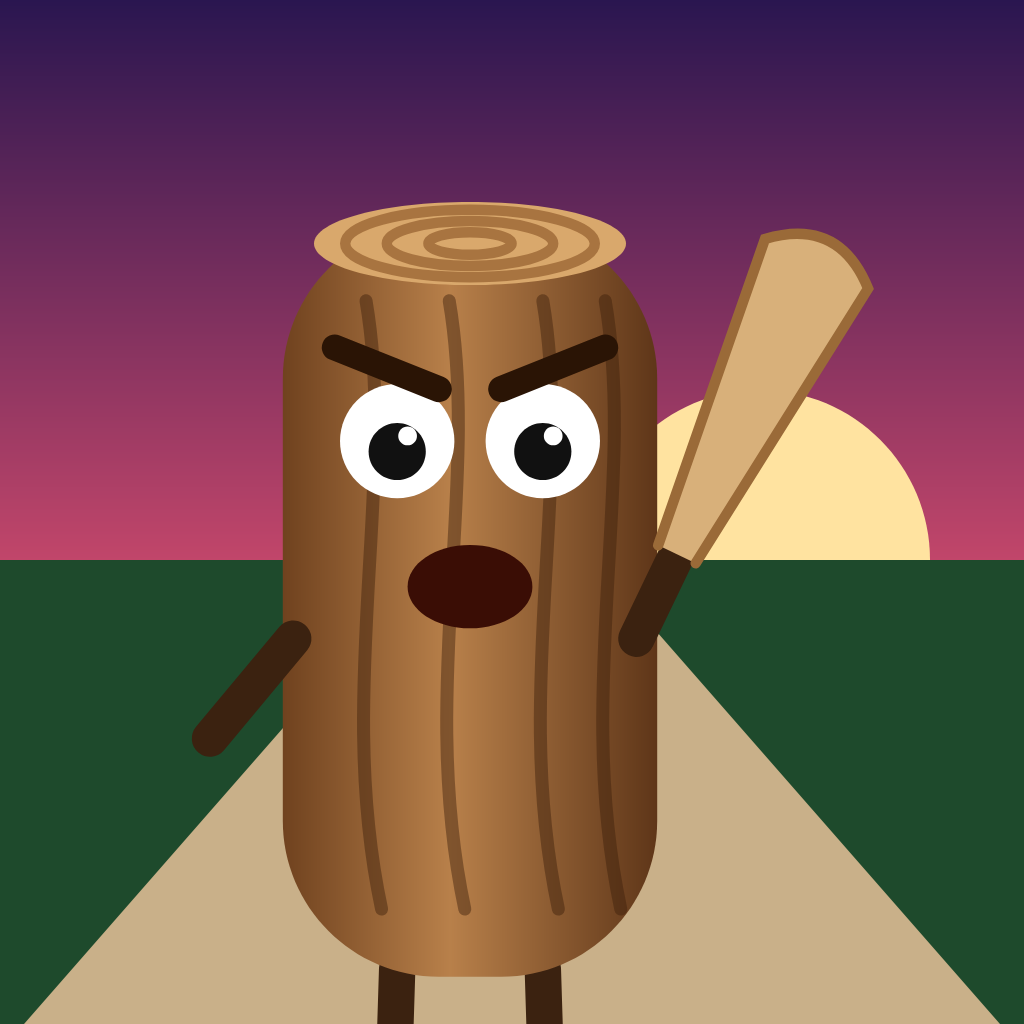
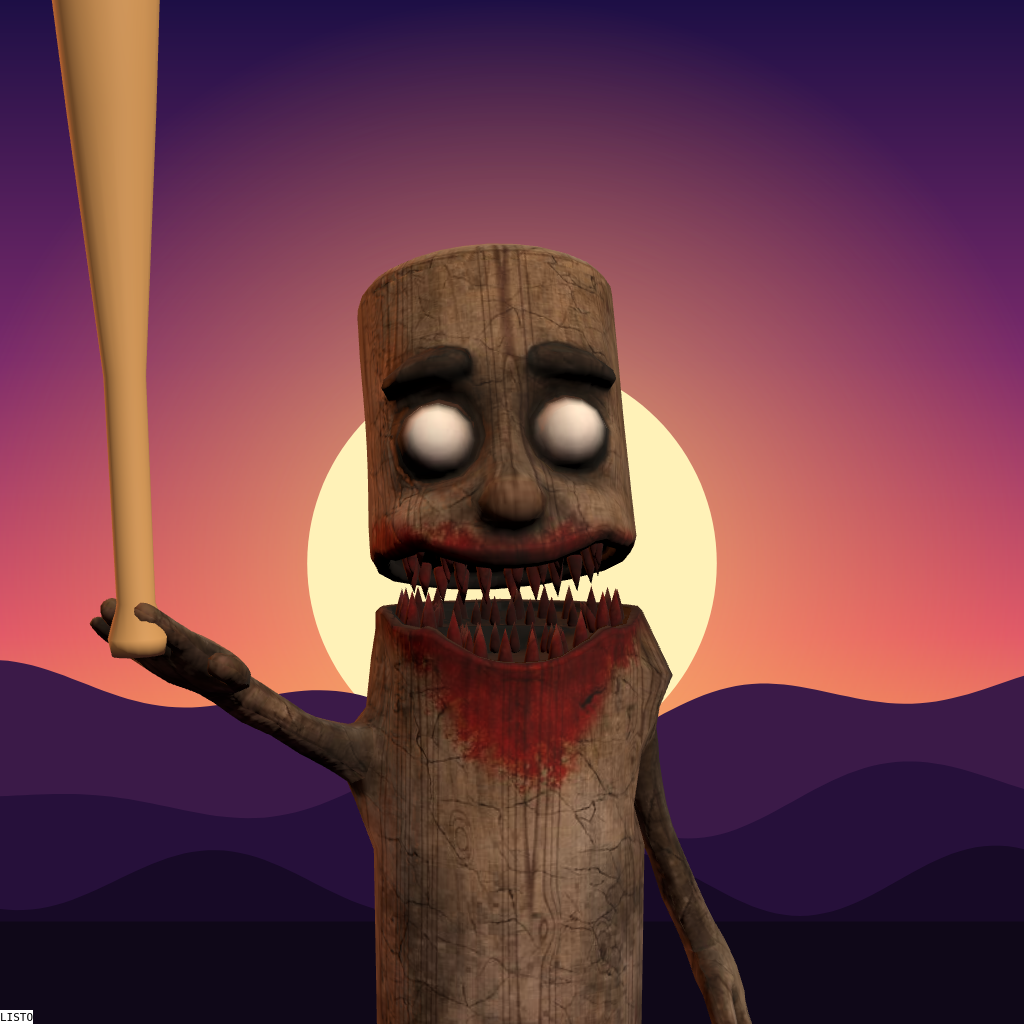
Tung Tung Run: icono nuevo con el Tung 3D y el bate en alto
Claude-Session: https://claude.ai/code/session_01MXEgw24Mx2EwfVVjmfXoV1

diff --git a/tung/icon.html b/tung/icon.html
@@ -1,26 +1,41 @@
-<!doctype html><html><head><meta charset="utf-8"><style>html,body{margin:0;width:1024px;height:1024px;overflow:hidden}canvas{display:block}</style></head><body><canvas id="c" width="1024" height="1024"></canvas><script>
-function drawTung(c, x, y, sc, t, angry = true) {
-  c.save(); c.translate(x, y); c.scale(sc, sc);
-  const bob = Math.sin(t * 10) * 4;
-  c.strokeStyle = '#3b2210'; c.lineWidth = 7; c.lineCap = 'round';
-  c.beginPath(); c.moveTo(-14, -8); c.lineTo(-18 - Math.sin(t * 10) * 8, 30); c.moveTo(14, -8); c.lineTo(18 + Math.sin(t * 10) * 8, 30); c.stroke();
-  const g = c.createLinearGradient(-38, 0, 38, 0); g.addColorStop(0, '#6b3e1c'); g.addColorStop(.45, '#b8804a'); g.addColorStop(1, '#5a3216');
-  c.fillStyle = g; c.beginPath(); c.roundRect ? c.roundRect(-36, -150 + bob, 72, 145, 30) : c.rect(-36, -150 + bob, 72, 145); c.fill();
-  c.strokeStyle = 'rgba(60,30,10,.45)'; c.lineWidth = 2.5; for (const gx of [-20, -4, 14, 26]) { c.beginPath(); c.moveTo(gx, -135 + bob); c.bezierCurveTo(gx + 6, -100 + bob, gx - 6, -60 + bob, gx + 3, -18 + bob); c.stroke(); }
-  c.fillStyle = '#d9a86c'; c.beginPath(); c.ellipse(0, -146 + bob, 30, 8, 0, 0, 7); c.fill(); c.strokeStyle = '#a87440'; c.lineWidth = 2; for (const r of [8, 16, 24]) { c.beginPath(); c.ellipse(0, -146 + bob, r, r * .27, 0, 0, 7); c.stroke(); }
-  for (const ex of [-14, 14]) { c.fillStyle = '#fff'; c.beginPath(); c.arc(ex, -108 + bob, 11, 0, 7); c.fill(); c.fillStyle = '#111'; c.beginPath(); c.arc(ex + (angry ? 0 : 2), -106 + bob, 5.5, 0, 7); c.fill(); c.fillStyle = '#fff'; c.beginPath(); c.arc(ex + 2, -109 + bob, 1.8, 0, 7); c.fill(); }
-  if (angry) { c.strokeStyle = '#2a1405'; c.lineWidth = 5; c.beginPath(); c.moveTo(-26, -126 + bob); c.lineTo(-6, -118 + bob); c.moveTo(26, -126 + bob); c.lineTo(6, -118 + bob); c.stroke(); }
-  c.fillStyle = '#3a0d05'; c.beginPath(); c.ellipse(0, -80 + bob, 12, angry ? 8 : 4, 0, 0, 7); c.fill();
-  // brazo con bate
-  const sw = Math.sin(t * 12) * .6;
-  c.save(); c.translate(32, -70 + bob); c.rotate(-.6 + sw);
-  c.strokeStyle = '#3b2210'; c.lineWidth = 7; c.beginPath(); c.moveTo(0, 0); c.lineTo(22, 0); c.stroke();
-  c.fillStyle = '#d8b07a'; c.beginPath(); c.moveTo(18, -4); c.lineTo(80, -11); c.quadraticCurveTo(90, 0, 80, 11); c.lineTo(18, 4); c.fill(); c.strokeStyle = '#9a6a38'; c.lineWidth = 2; c.stroke();
-  c.restore();
-  c.strokeStyle = '#3b2210'; c.lineWidth = 7; c.beginPath(); c.moveTo(-34, -70 + bob); c.lineTo(-50, -48 + bob + Math.sin(t * 10) * 8); c.stroke();
-  c.restore();
-}
-
-const c=document.getElementById('c').getContext('2d');const g=c.createLinearGradient(0,0,0,1024);g.addColorStop(0,'#2a1650');g.addColorStop(.55,'#c2466a');g.addColorStop(1,'#ffb05a');c.fillStyle=g;c.fillRect(0,0,1024,1024);
-c.fillStyle='#ffe3a0';c.beginPath();c.arc(760,560,170,Math.PI,0);c.fill();c.fillStyle='#1e4a2c';c.fillRect(0,560,1024,464);c.fillStyle='#c9b089';c.beginPath();c.moveTo(430,560);c.lineTo(594,560);c.lineTo(1000,1024);c.lineTo(24,1024);c.fill();
-drawTung(c,470,1010,5.2,0.35,true);</script></body></html>
+<!doctype html><html><head><meta charset="utf-8"><style>html,body{margin:0;background:#000}canvas,img{display:block;position:fixed;left:0;top:0}#i{position:fixed;left:0;bottom:0;font:11px monospace;background:#fff;color:#000;z-index:9}</style></head><body>
+<script>onerror=(m)=>{document.getElementById('i').textContent='ERR '+m}</script>
+<script type="module">
+import * as THREE from './www/lib/three.module.min.js';
+import { GLTFLoader } from './www/lib/GLTFLoader.js';
+import * as M from './www/modelos.js';
+const S = 1024, q = new URLSearchParams(location.search.replace(/^\?/, '').length ? location.search : '?fov=30&cx=.3&cy=1.85&cz=-3.6&lx=0&ly=1.85');
+M.BEND.y.value = 0;
+const r = new THREE.WebGLRenderer({ antialias: true, preserveDrawingBuffer: true });
+r.setPixelRatio(1); r.setSize(S, S); document.body.appendChild(r.domElement);
+const sc = new THREE.Scene();
+// fondo: atardecer de selva
+sc.background = M.canvasTex(S, S, (c, w, h) => {
+  const g = c.createLinearGradient(0, 0, 0, h); g.addColorStop(0, '#1d0f45'); g.addColorStop(.35, '#7a2a6b'); g.addColorStop(.62, '#e0566a'); g.addColorStop(.82, '#ffb35a'); g.addColorStop(1, '#3a1a2c');
+  c.fillStyle = g; c.fillRect(0, 0, w, h);
+  const sx = w * .5, sy = h * .55;
+  const glow = c.createRadialGradient(sx, sy, 0, sx, sy, w * .55); glow.addColorStop(0, 'rgba(255,240,170,.95)'); glow.addColorStop(.25, 'rgba(255,200,110,.6)'); glow.addColorStop(1, 'rgba(255,140,60,0)');
+  c.fillStyle = glow; c.fillRect(0, 0, w, h);
+  c.fillStyle = '#fff2b8'; c.beginPath(); c.arc(sx, sy, w * .2, 0, 7); c.fill();
+  // colinas de selva en capas
+  for (const [col, base, amp, fq, ph] of [['#3b1a48', .72, 60, 2.3, 1], ['#26103a', .8, 50, 3.7, 3], ['#170a26', .88, 40, 5.1, 5]]) {
+    c.fillStyle = col; c.beginPath(); c.moveTo(0, h);
+    for (let x = 0; x <= w; x += 8) c.lineTo(x, h * base - amp * (.5 + .5 * Math.sin(x / w * Math.PI * fq + ph)) - amp * .4 * Math.sin(x / w * 17 + ph * 2));
+    c.lineTo(w, h); c.fill();
+  }
+  c.fillStyle = '#0f0818'; c.fillRect(0, h * .9, w, h * .1);
+}, false);
+sc.add(new THREE.HemisphereLight(0xffe2c0, 0x40204a, 1.5));
+const key = new THREE.DirectionalLight(0xfff0d8, 2.6); key.position.set(-2, 2.5, -3); sc.add(key);
+const rim = new THREE.DirectionalLight(0xff8a4a, 2.2); rim.position.set(2.5, 2, 3); sc.add(rim);
+const gl = await new Promise((ok, ko) => new GLTFLoader().load('./www/models/tung.glb', ok, undefined, ko));
+const t = new M.Tung(gl); sc.add(t.root); t.root.rotation.y = Math.PI;
+t.pose(0, 'idle', +(q.get('t') || .6), .016);
+t.root.updateMatrixWorld(true);
+const cam = new THREE.PerspectiveCamera(+(q.get('fov') || 43), 1, .1, 50);
+cam.position.set(+(q.get('cx') || .35), +(q.get('cy') || 1.6), +(q.get('cz') || -3.7));
+cam.lookAt(+(q.get('lx') || .1), +(q.get('ly') || 1.55), 0);
+r.render(sc, cam);
+const im = new Image(); im.src = r.domElement.toDataURL('image/png'); document.body.appendChild(im);
+document.getElementById('i').textContent = 'LISTO';
+</script></body></html>
